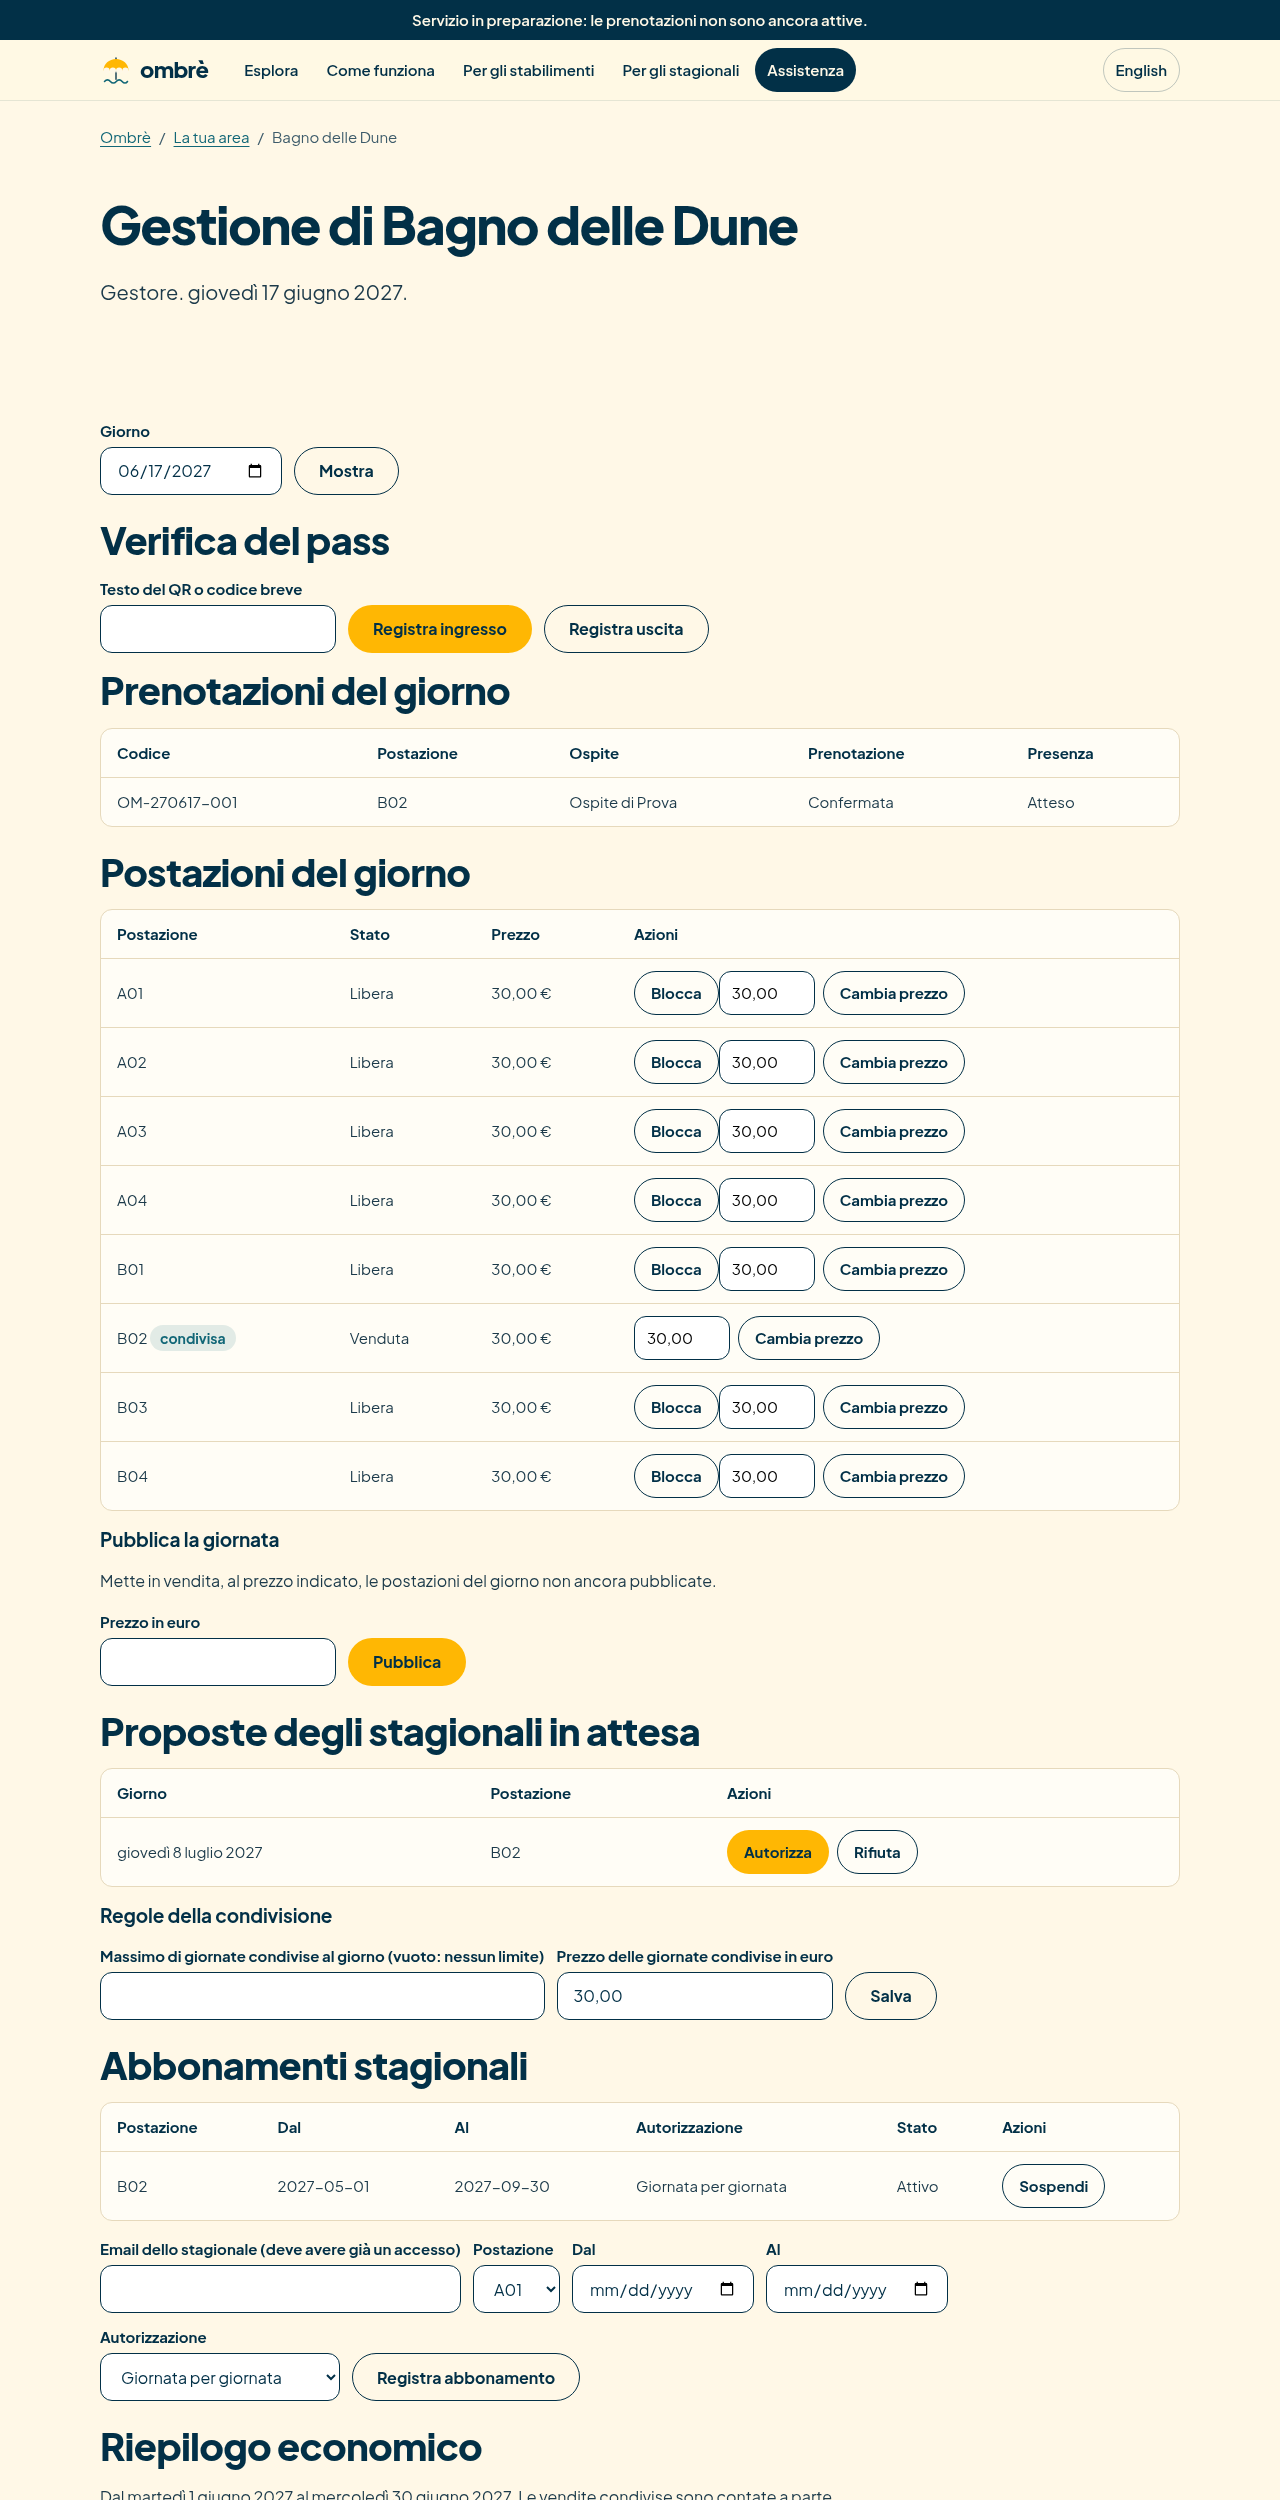
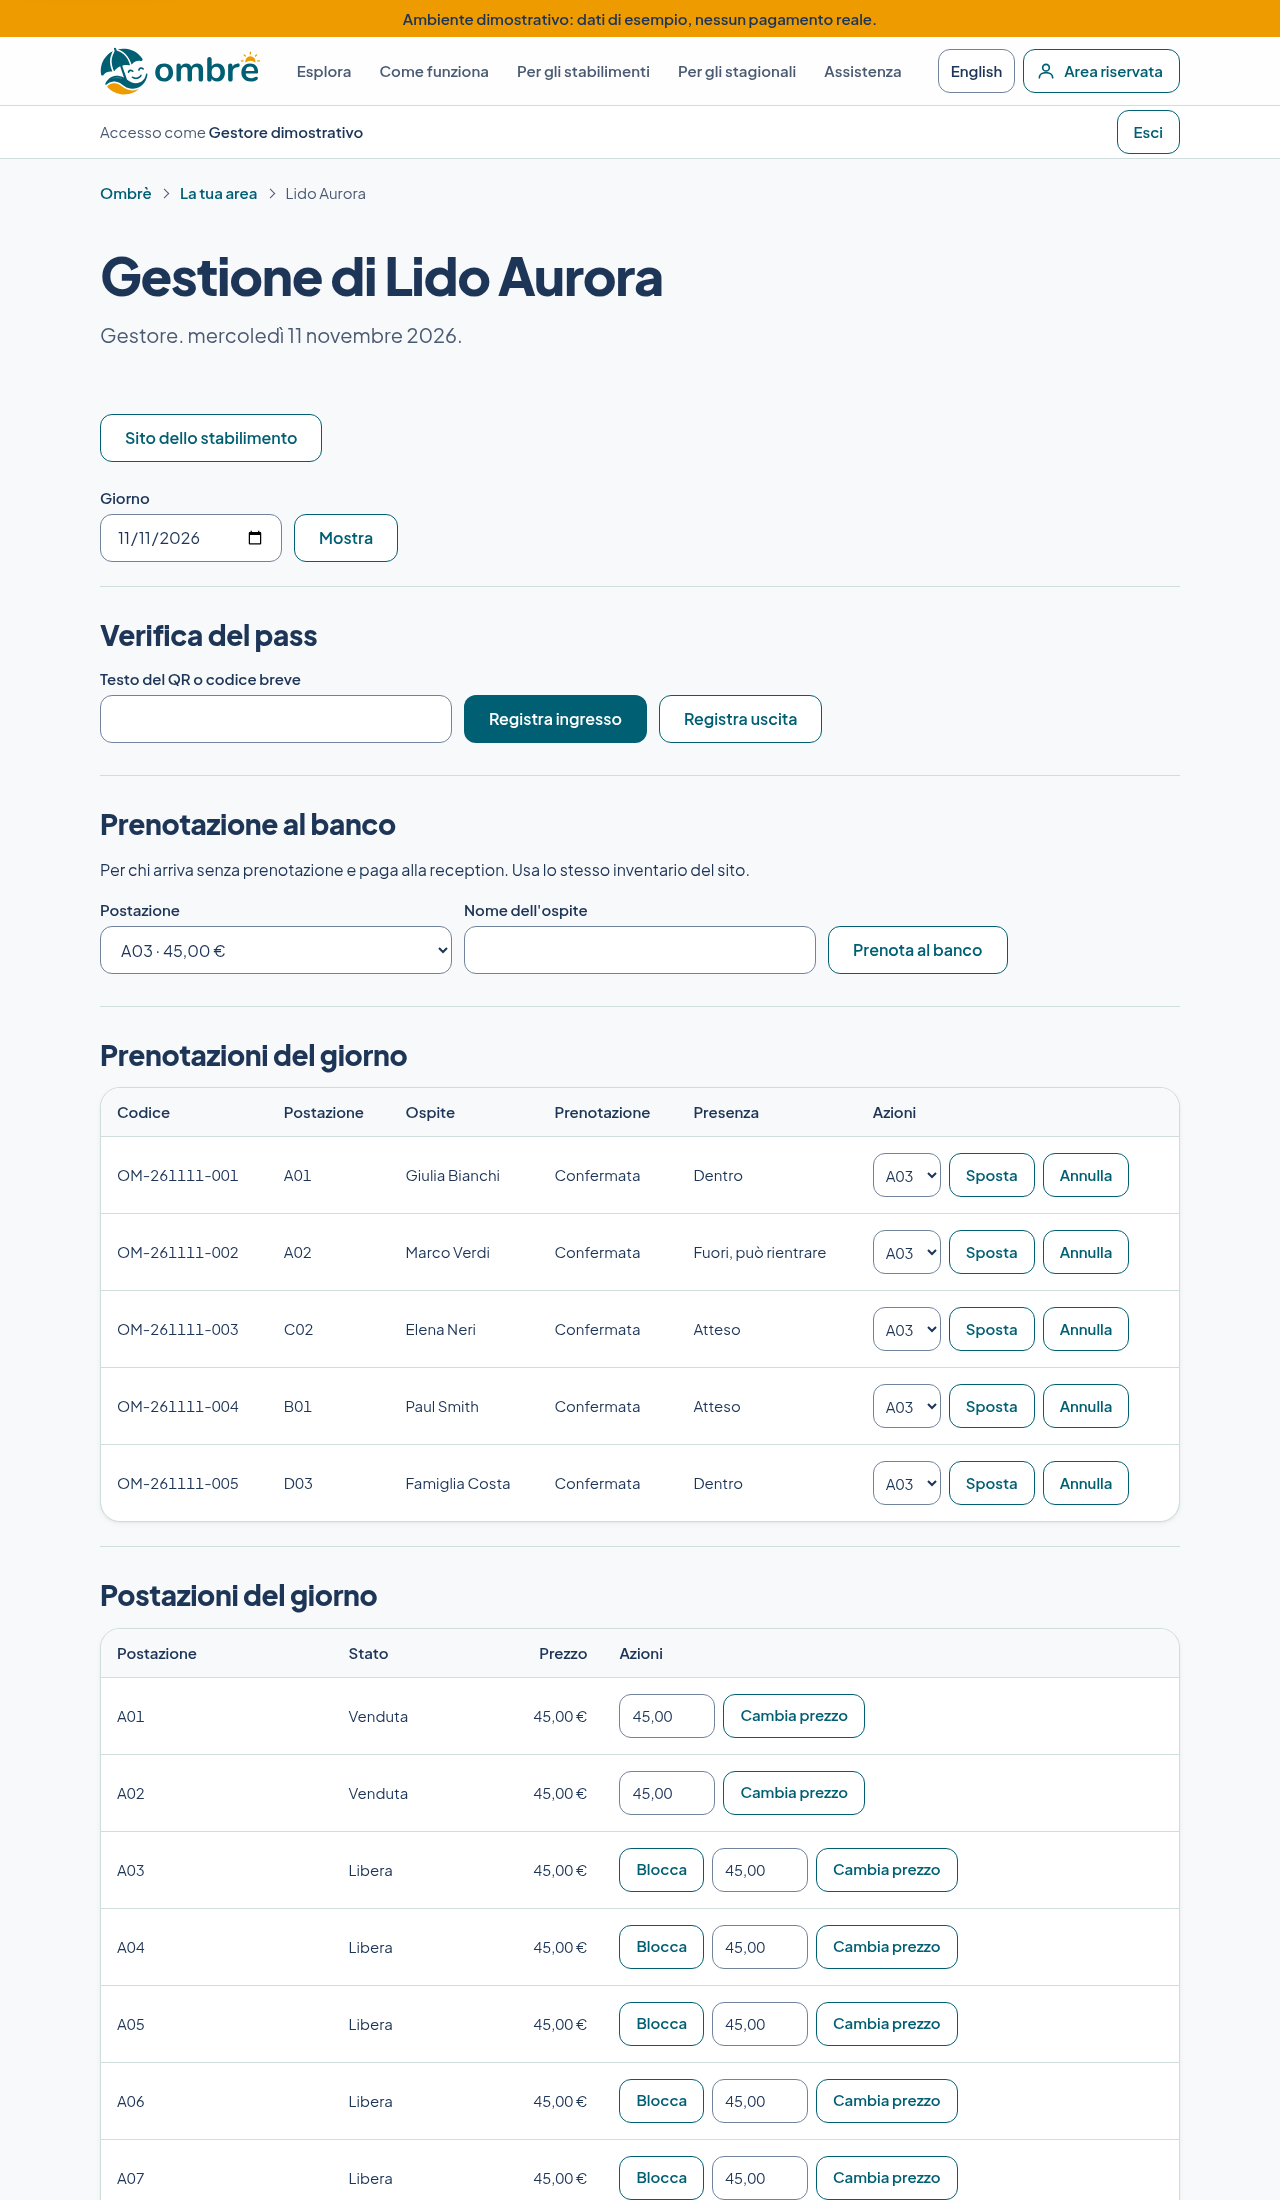
Ombrè: documentazione e schermate dopo il nuovo progetto grafico
- Stato, collaudo, decisioni D19-D21 e indice aggiornati: grafica del
  committente, logo, spiaggia finta, revisione indipendente.
- Schermate rifatte con la nuova grafica.

Verifiche: collaudo completo superato, 102 test e 462 controlli.

diff --git a/docs/stato.md b/docs/stato.md
@@ -11,15 +11,19 @@ indicizzato.
 
 **Fatto e provato in container**
 
+- Grafica «Solar & Fresh» del committente su tutto il sito, con il suo logo ridisegnato
+  in vettoriale ([progetto-grafico.md](progetto-grafico.md), [marchio](marchio/marchio.md)).
 - Sito pubblico in italiano e inglese: sei pagine per lingua, più «Esplora» e la scheda
-  di ogni stabilimento.
+  di ogni stabilimento. Ricerca per località, giorno, ospiti e giornate condivise, con
+  postazioni libere e prezzo «da» reale; planimetria a colori con barra di riepilogo.
 - Prenotazione dell'ospite: scelta della postazione, riepilogo con codice promozionale,
   riserva, dati, pagamento di prova, pass con codice QR e codice breve.
 - Reception: verifica del pass con ingresso, uscita e rientro, prenotazione al banco,
   spostamento di postazione, elenco del giorno.
 - Gestione dello stabilimento: giornate, prezzi, blocchi, annullamento con rimborso
   registrato, proposte degli stagionali, regole della condivisione, abbonamenti,
-  riepilogo economico, sito con tre modelli, bozze e revisioni.
+  riepilogo economico, sito con tre modelli, bozze, revisioni, copertina e galleria
+  scelte tra le immagini dimostrative.
 - Stagionale: proposte anche ricorrenti, ritiro delle date libere, rendiconto con la
   propria quota e senza dati dell'ospite.
 - Economia: ripartizione di ogni vendita, registro che si può solo estendere,
@@ -39,26 +43,34 @@ indicizzato.
 - Console centrale della piattaforma, gruppi e cooperative, piani in `plan_feature`.
 - Annullamento da parte dell'ospite: aspetta le condizioni di cancellazione.
 - Chiusura di un'intera giornata con annullamento di tutte le prenotazioni.
-- Immagini e dominio personalizzato nel sito dello stabilimento.
-- Pagine di località, «Chi siamo», mappa.
+- Caricamento di foto proprie e dominio personalizzato nel sito dello stabilimento.
+- Pagine di località, «Chi siamo», mappa interattiva, recensioni, distanza dalla spiaggia.
+- Console della reception a griglia («Ombrè Skipper»), banner «Dritta Ombrè», elenco
+  degli stabilimenti in pagina iniziale: vedi i limiti in
+  [progetto-grafico.md](progetto-grafico.md).
 - Metriche, allarmi, backup pianificato, CI collegata a un repository.
 
 ## Collaudo
 
-Esito completo in [collaudo.md](collaudo.md). In sintesi, l'11/11/2026: 85 test e 332
-controlli sul sistema in esecuzione superati, backup ripristinato. Dei 15 scenari di
+Esito completo in [collaudo.md](collaudo.md). In sintesi, l'11/11/2026, dopo il nuovo
+progetto grafico: 102 test e 462 controlli sul sistema in esecuzione superati, backup
+ripristinato. Una revisione indipendente di grafica e accessibilità ha trovato venti
+rilievi, nessuno bloccante: quindici corretti, gli altri registrati tra i limiti. Dei 15 scenari di
 accettazione del progetto, 12 sono superati e 3 lo sono in parte (rimborsi eseguiti,
 chiusura di un'intera giornata, prove di accessibilità con persone).
 
 Limiti noti del codice: la Content-Security-Policy ammette gli script in linea, perché
 il framework scrive in linea i dati delle pagine; i limiti alle richieste vivono nella
 memoria di un solo processo dell'API; il preventivo non è salvato con una scadenza
-propria; il segreto della verifica in due passaggi è salvato in chiaro nel database.
+propria; il segreto della verifica in due passaggi è salvato in chiaro nel database; la
+pagina «non trovata» di un indirizzo ben formato ma senza dati (per esempio uno
+stabilimento inesistente) ha il codice 404 giusto, ma senza script appare vuota.
 
 ## Ambiente dimostrativo
 
 Progetto compose `ombre-demo`, porte 3220 (sito) e 3221 (API), segreti in `.env.demo`
-(non versionato). Si avvia e si ferma così, dalla cartella `ombre/`:
+(non versionato). Contiene due stabilimenti di fantasia, tra cui «Lido Aurora» con
+immagini, abbonamenti e prenotazioni già fatte: guida in [demo.md](demo.md). Si avvia e si ferma così, dalla cartella `ombre/`:
 
 ```bash
 docker compose --env-file .env.demo -p ombre-demo --profile tunnel up -d

diff --git a/docs/collaudo.md b/docs/collaudo.md
@@ -1,9 +1,9 @@
 # Collaudo
 
 Esito del collaudo dell'11/11/2026, eseguito con `pnpm collaudo` su container creati da
-zero e rimossi alla fine. Il comando esegue lint e controllo dei tipi, 85 test (47 su un
+zero e rimossi alla fine. Il comando esegue lint e controllo dei tipi, 102 test (72 su un
 PostgreSQL vero), costruisce le immagini, avvia database, API, worker e sito, percorre
-sette verifiche sul sistema in esecuzione (332 controlli) e ripristina un backup.
+sette verifiche sul sistema in esecuzione (462 controlli) e ripristina un backup.
 
 Tutti i dati sono dimostrativi: lo stabilimento «Bagno delle Dune» è fittizio e il
 pagamento passa da un fornitore di prova che non muove denaro.
@@ -13,11 +13,11 @@ pagamento passa da un fornitore di prova che non muove denaro.
 | Parte | Controlli | Esito |
 |---|---|---|
 | Lint e tipi | tutto il codice | Superati |
-| Test | 85 | Superati |
-| Pagine pubbliche (`smoke`) | 204 | Superati |
-| Percorso di riserva sul sito (`smoke:flow`) | 24 | Superati |
-| Aree riservate sul sito (`smoke:areas`) | 45 | Superati |
-| Sito dello stabilimento (`smoke:site`) | 20 | Superati |
+| Test | 102 | Superati |
+| Pagine pubbliche e pagina «non trovata» (`smoke`) | 264 | Superati |
+| Ricerca, planimetria e percorso di riserva sul sito (`smoke:flow`) | 68 | Superati |
+| Aree riservate sul sito (`smoke:areas`) | 67 | Superati |
+| Sito dello stabilimento (`smoke:site`) | 24 | Superati |
 | Prenotazione e ruoli sull'API (`smoke:booking`) | 15 | Superati |
 | Acquisti simultanei sull'API (`smoke:api`) | 13 | Superati |
 | Verifica in due passaggi (`smoke:2fa`) | 11 | Superati |
@@ -61,3 +61,14 @@ pagamento passa da un fornitore di prova che non muove denaro.
 - Prove con persone: accessibilità assistita, personale della reception, ospiti.
 - Verifica di sicurezza indipendente e prove di intrusione.
 - Aspetti legali e fiscali, che il progetto affida ai professionisti.
+
+## Revisione indipendente della grafica
+
+Dopo l'applicazione del progetto grafico del committente, un revisore che non aveva
+partecipato al lavoro ha esaminato il sito in esecuzione a 390 e 1280 px, senza script e
+da tastiera. Nessun difetto bloccante. Ha trovato solidi contrasti (minimo 5,49:1),
+struttura dei titoli, etichette, testi alternativi, bersagli di tocco, uso senza script e
+parità tra le lingue. Dei venti rilievi, quindici sono stati corretti e verificati con
+nuovi controlli automatici; gli altri sono scelte rimandate, elencate tra i limiti di
+[progetto-grafico.md](progetto-grafico.md).
+

diff --git a/docs/decisioni.md b/docs/decisioni.md
@@ -151,5 +151,27 @@ Su richiesta del committente esiste un ambiente dimostrativo separato (progetto 
 `ombre-demo`, porte 3220 e 3221, segreti generati in `.env.demo`, non versionato)
 raggiungibile da un indirizzo temporaneo creato dal profilo `tunnel`. Contiene solo dati
 dimostrativi e il fornitore di pagamento di prova. Non è un rilascio: il sito resta non
-indicizzabile e dichiara che il servizio è in preparazione.
+indicizzabile e, con `OMBRE_DEMO_MODE=true`, dichiara in ogni pagina di essere un
+ambiente dimostrativo con dati di esempio e senza pagamenti reali.
+
+## D20 — Progetto grafico e logo del committente — accettata (11/11/2026)
+
+Il sito adotta il progetto «Solar & Fresh» fornito dal committente: palette (Deep Ocean
+Teal, Seafoam Tint, Sand Amber, Slate Abyss, Ivory Sand), ricerca in evidenza,
+planimetria a colori con barra di riepilogo. Sostituisce l'identità proposta nella v3.0.
+Il logo è quello del committente, ricalcato in vettoriale dalla sua scheda; la scritta è
+in Nunito Bold convertita in tracciati. Le versioni che la scheda non mostra
+(orizzontale, su fondo scuro, a un colore, icona semplificata) sono derivate e attendono
+la sua approvazione; un originale vettoriale, se esiste, sostituisce il ricalco.
+I colori di stato della planimetria non reggono il testo sopra: riempiono solo segni
+grafici, e lo stato è sempre indicato anche da forma ed etichetta.
+
+## D21 — Solo dati veri nell'interfaccia; immagini dimostrative dichiarate — accettata (11/11/2026)
+
+Gli elementi del progetto grafico senza dati dietro non compaiono: fotografie, punteggi
+da recensioni, distanza dalla spiaggia, mappa interattiva, portafogli di pagamento. Le
+immagini dell'ambiente dimostrativo sono illustrazioni originali dichiarate come tali, e
+il sito dello stabilimento può scegliere solo tra quelle finché non esiste il
+caricamento di foto proprie. Lo stabilimento «Lido Aurora» è di fantasia e segnalato in
+ogni pagina.
 

diff --git a/README.md b/README.md
@@ -21,6 +21,9 @@ reception lavora sullo stesso inventario del sito: nessuna agenda parallela.
 | [docs/qualita-web.md](docs/qualita-web.md) | Requisiti di design, accessibilità, prestazioni, SEO, AEO e GEO: pagine pubbliche, domande dei clienti, dati da confermare, verifiche |
 | [docs/prompt-qualita-web.md](docs/prompt-qualita-web.md) | Il prompt di qualità web del committente, da rieseguire sul codice quando esisteranno le pagine |
 | [docs/struttura-logica.png](docs/struttura-logica.png) | Schema della struttura logica: attori, superfici, API e moduli, dati (sorgente in `struttura-logica.svg`) |
+| [docs/progetto-grafico.md](docs/progetto-grafico.md) | Il progetto grafico del committente: palette, contrasti, cosa chiede e cosa resta fuori |
+| [docs/marchio/marchio.md](docs/marchio/marchio.md) | Il logo nelle sue versioni e le regole d'uso |
+| [docs/demo.md](docs/demo.md) | L'ambiente dimostrativo: stabilimenti di fantasia, accessi e percorsi da provare |
 | [docs/collaudo.md](docs/collaudo.md) | Esito del collaudo: i 15 scenari di accettazione, cosa li verifica, cosa resta aperto |
 | [docs/decisioni.md](docs/decisioni.md) | Registro delle decisioni (ADR brevi) |
 | [docs/stato.md](docs/stato.md) | Stato del progetto e prossimo risultato da costruire |

diff --git a/docs/progetto.md b/docs/progetto.md
@@ -96,6 +96,10 @@ L'identità visiva non è una protezione dei dati: i controlli appartengono al s
 
 ## Identità visiva e accessibilità
 
+> Palette e logo di questa sezione sono quelli proposti nella v3.0. Dall'11/11/2026 vale
+> il progetto grafico del committente: vedi [progetto-grafico.md](progetto-grafico.md) e
+> la decisione D20. Restano valide le regole su accessibilità, stati e linguaggio.
+
 | Token | Colore | Uso |
 |---|---|---|
 | Laguna / primario | `#023047` | Testi, navigazione, pulsanti principali |

diff --git a/docs/qualita-web.md b/docs/qualita-web.md
@@ -96,6 +96,9 @@ l'aspetto: l'identità di Ombrè resta quella definita in
 
 Obiettivo confermato: WCAG 2.2 AA, verificato sulle pagine reali.
 
+> La tabella che segue riguarda la palette della v3.0. Per la palette in uso dall'11/11/2026
+> i contrasti sono in [progetto-grafico.md](progetto-grafico.md).
+
 **Verificato oggi** — contrasti della palette, calcolati con la formula WCAG:
 
 | Coppia (testo su fondo) | Rapporto | Uso consentito |
